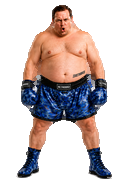
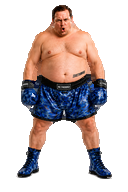
Further fix Default Male ooh arm-body gaps
Restore source-background pixels in the armpit band (dist < 90) after
seal fills arm-torso pockets with skin-toned pixels. Add lower outer
wedge pale clear and extended wedge flood. Re-bake default-ooh assets.

diff --git a/frontend/scripts/bake_default_ring_poses.py b/frontend/scripts/bake_default_ring_poses.py
@@ -127,7 +127,7 @@ def armpit_clear_mask_ooh(body: np.ndarray) -> np.ndarray:
 
     mask = np.zeros(solid.shape, dtype=bool)
     y_top = y0 + int(0.10 * fig_h)
-    y_bot = y0 + int(0.48 * fig_h)
+    y_bot = y0 + int(0.52 * fig_h)
     for y in range(y_top, y_bot):
         t = (y - y_top) / max(1, y_bot - y_top - 1)
         lx0 = x0 + int(fig_w * (0.04 + 0.10 * t))
@@ -135,6 +135,31 @@ def armpit_clear_mask_ooh(body: np.ndarray) -> np.ndarray:
         mask[y, lx0:lx1] = True
         rx1 = x1 - int(fig_w * (0.04 + 0.10 * t))
         rx0 = x1 - int(fig_w * (0.34 - 0.02 * t))
+        mask[y, rx0:rx1] = True
+
+    hull = ndimage.binary_fill_holes(ndimage.binary_closing(solid, iterations=3))
+    return mask & hull
+
+
+def armpit_outer_lower_mask(body: np.ndarray) -> np.ndarray:
+    """Thin lower wedges between inner glove and hip — not the outer arm surface."""
+    solid = body[:, :, 3] > 40
+    if not solid.any():
+        return np.zeros(solid.shape, dtype=bool)
+    ys, xs = np.where(solid)
+    y0, y1, x0, x1 = int(ys.min()), int(ys.max()), int(xs.min()), int(xs.max())
+    fig_h, fig_w = y1 - y0, x1 - x0
+
+    mask = np.zeros(solid.shape, dtype=bool)
+    y_top = y0 + int(0.38 * fig_h)
+    y_bot = y0 + int(0.52 * fig_h)
+    for y in range(y_top, y_bot):
+        t = (y - y_top) / max(1, y_bot - y_top - 1)
+        lx0 = x0 + int(fig_w * (0.14 + 0.06 * t))
+        lx1 = x0 + int(fig_w * (0.20 - 0.02 * t))
+        mask[y, lx0:lx1] = True
+        rx1 = x1 - int(fig_w * (0.14 + 0.06 * t))
+        rx0 = x1 - int(fig_w * (0.20 - 0.02 * t))
         mask[y, rx0:rx1] = True
 
     hull = ndimage.binary_fill_holes(ndimage.binary_closing(solid, iterations=3))
@@ -195,19 +220,32 @@ def punch_ooh_armpit_wedges(arr: np.ndarray, src: Image.Image) -> np.ndarray:
     mx = rgb.max(axis=2)
     chroma = mx - rgb.min(axis=2)
     wedge = armpit_clear_mask_ooh(out)
-    pale = (out[:, :, 3] > 40) & (mx > 160) & (chroma < 55)
-    out[wedge & pale, 3] = 0
+    outer_lower = armpit_outer_lower_mask(out)
 
     dist = source_bg_distance_mask(src, out.shape[:2])
-    studio = dist < 120
     solid = out[:, :, 3] > 40
     if solid.any():
         ys, _ = np.where(solid)
         y0, y1 = int(ys.min()), int(ys.max())
         fig_h = y1 - y0
         y_band = np.zeros(out.shape[:2], dtype=bool)
-        y_band[y0 + int(0.18 * fig_h) : y0 + int(0.42 * fig_h), :] = True
-        out[wedge & y_band & studio & (out[:, :, 3] > 40), 3] = 0
+        y_band[y0 + int(0.16 * fig_h) : y0 + int(0.52 * fig_h), :] = True
+        out[wedge & y_band & (dist < 90) & (out[:, :, 3] > 40), 3] = 0
+
+    pale = (out[:, :, 3] > 40) & (mx > 160) & (chroma < 55)
+    out[wedge & pale, 3] = 0
+
+    pale_lower = (mx > 180) & (chroma < 68)
+    out[outer_lower & pale_lower & (out[:, :, 3] > 40), 3] = 0
+
+    clear = out[:, :, 3] < 40
+    for _ in range(12):
+        near = ndimage.binary_dilation(clear, iterations=2)
+        grow = wedge & near & (out[:, :, 3] > 40) & (mx > 128) & (chroma < 74)
+        if not grow.any():
+            break
+        out[grow, 3] = 0
+        clear = out[:, :, 3] < 40
     return out
 
 
@@ -221,7 +259,10 @@ def assert_pose_solid(packed: Image.Image, pose: str) -> None:
         assert_solid(packed, pose)
         return
     arr = np.asarray(packed)
-    allow = ndimage.binary_dilation(armpit_clear_mask_ooh(arr), iterations=5)
+    allow = ndimage.binary_dilation(
+        armpit_clear_mask_ooh(arr) | armpit_outer_lower_mask(arr),
+        iterations=5,
+    )
     alpha = arr[:, :, 3]
     opaque = alpha == 255
     holes_mask = ndimage.binary_fill_holes(opaque) & ~opaque
